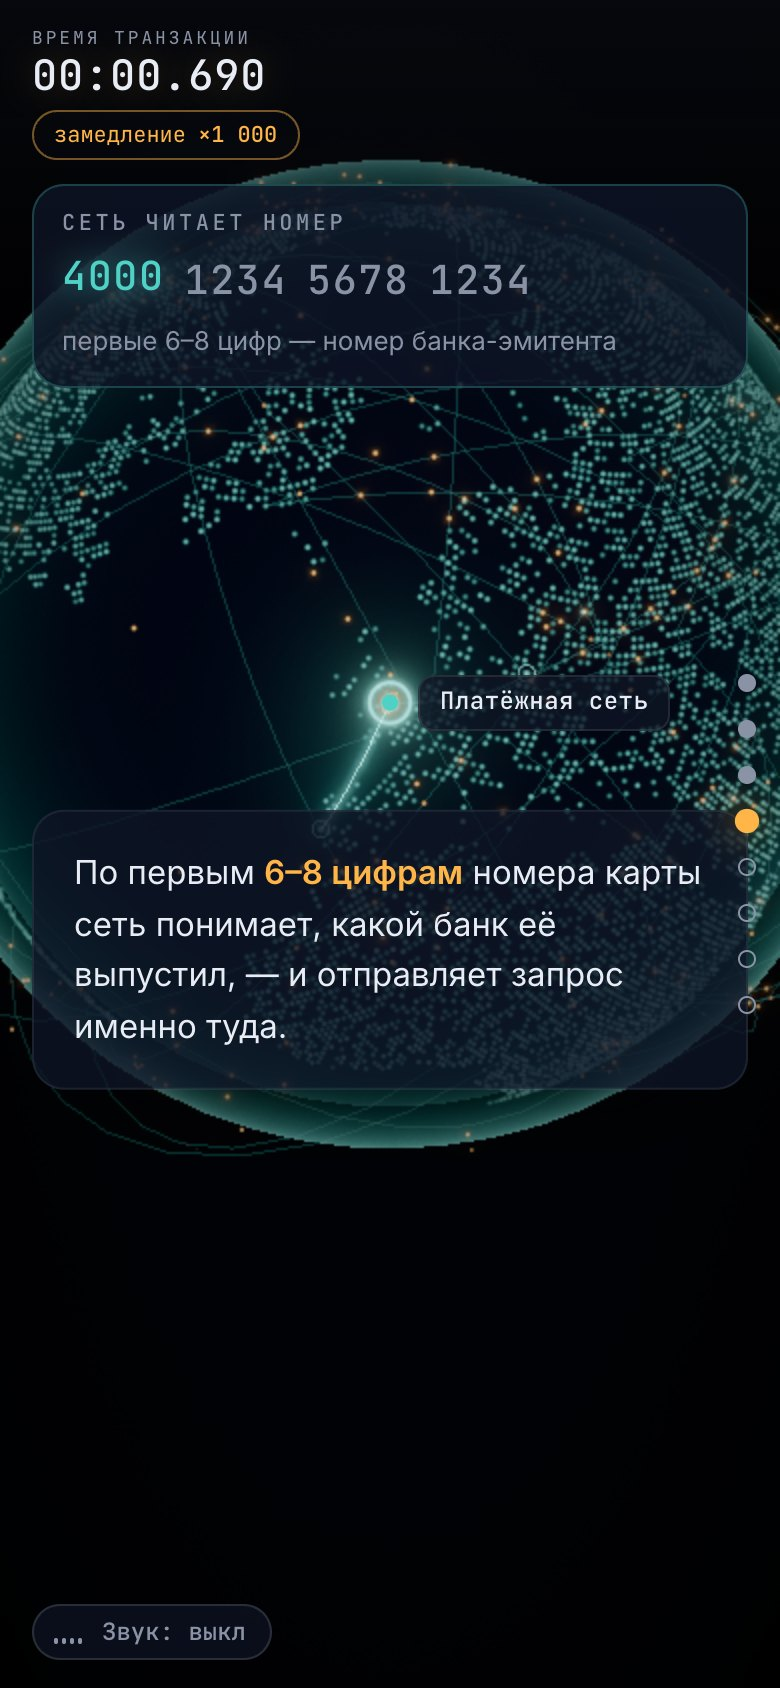
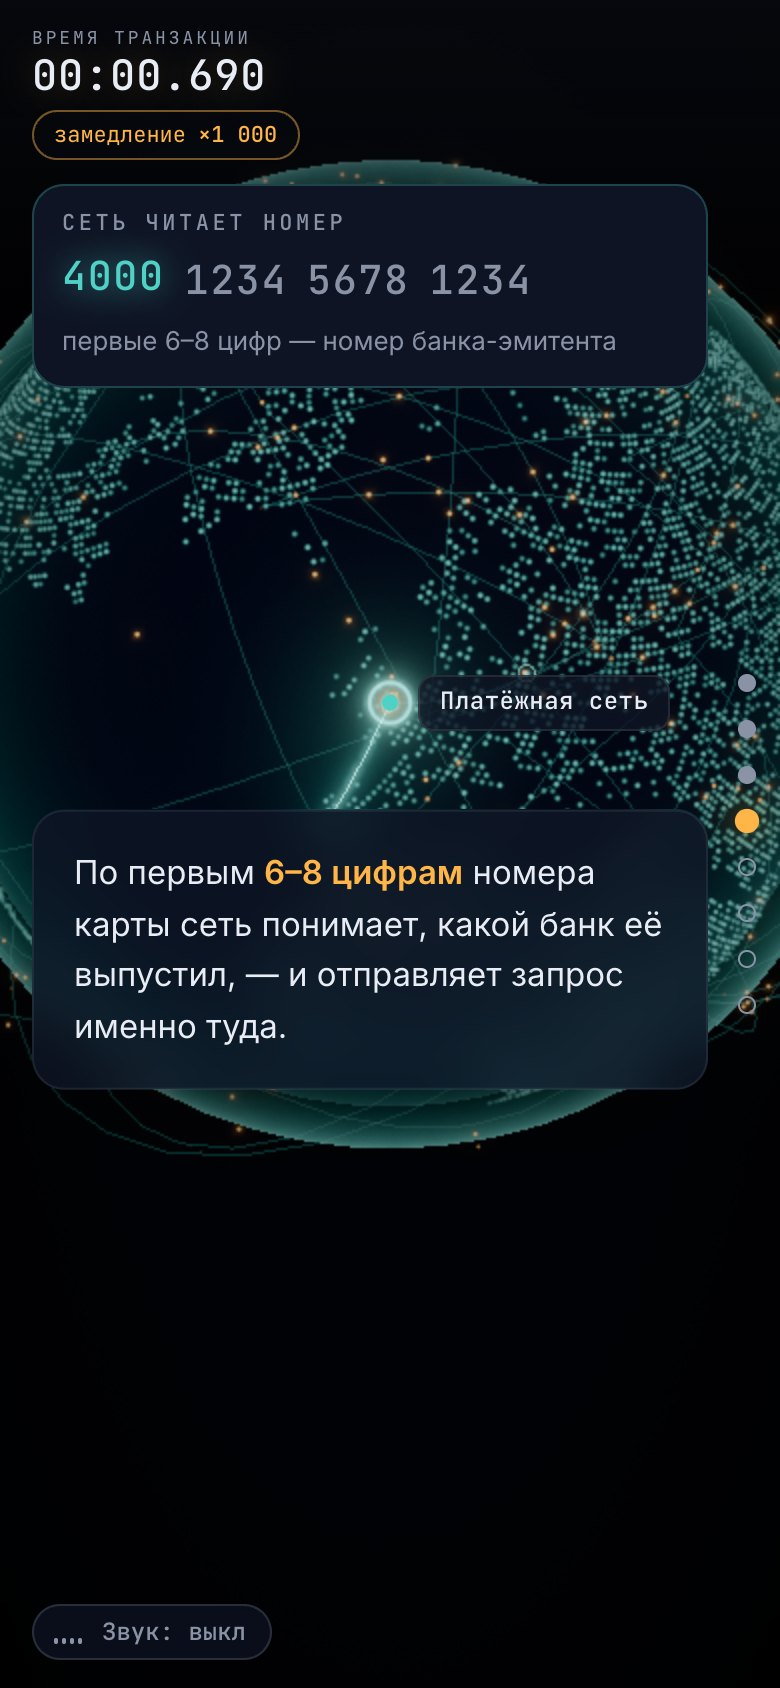
Fix mobile layout: page zoom-out, off-screen labels, rail overlaps
- .cover-hint was centred with translateX(-50%), which the rise animation
  overwrote, so at load it stuck out past the right edge and phones zoomed
  the whole page out (innerWidth 477 on a 390 screen). Centre it with
  left/right instead; clip #story horizontally as a safety net.
- Renderer sizes the canvas from the layout width, not innerWidth.
- 3D labels flip to the other side of their dot or get nudged when they
  would spill off-screen; long labels wrap on phones.
- On phones cards, cover, wow text and overlay panels keep a lane clear
  for the scene rail; HUD, rail and sound hide over the fees finale.
- Refresh mobile screenshots.

diff --git a/src/gl/labels.ts b/src/gl/labels.ts
@@ -1,4 +1,5 @@
 import { Vector3, type Camera } from 'three';
+import { clamp } from '../core/math';
 
 // DOM labels pinned to points in 3D. Text stays real HTML (readable, selectable,
 // crisp at any DPR); only its position follows the WebGL camera.
@@ -10,9 +11,17 @@ type Label = {
   /** Pixel offset from the anchor. */
   dx: number;
   dy: number;
+  /** Box width, re-measured whenever the box element is replaced. */
+  box: HTMLElement | null;
+  bw: number;
+  flip: boolean;
+  shift: number;
 };
 
 const v = new Vector3();
+const EDGE = 8;
+/** The right edge keeps clear of the scene rail. */
+const edgeRight = (w: number) => (w <= 760 ? 34 : 16);
 
 export class LabelLayer {
   readonly root: HTMLElement;
@@ -29,7 +38,7 @@ export class LabelLayer {
     el.className = `label ${cls}`;
     el.innerHTML = html;
     this.root.appendChild(el);
-    const label: Label = { el, anchor: new Vector3(), opacity: 0, dx, dy };
+    const label: Label = { el, anchor: new Vector3(), opacity: 0, dx, dy, box: null, bw: 0, flip: false, shift: 0 };
     this.items.set(id, label);
     return label;
   }
@@ -61,10 +70,47 @@ export class LabelLayer {
       }
       v.copy(l.anchor).project(camera);
       const behind = v.z > 1;
-      const x = (v.x * 0.5 + 0.5) * w + l.dx;
+      let x = (v.x * 0.5 + 0.5) * w + l.dx;
       const y = (-v.y * 0.5 + 0.5) * h + l.dy;
+      const box = l.el.firstElementChild as HTMLElement | null;
+      if (box !== l.box || !l.bw) {
+        l.box = box;
+        l.bw = box?.offsetWidth ?? 0;
+        l.shift = 0;
+      }
+      const right = w - edgeRight(w);
+      if (x < 0 || x > w) this.fit(l, x, right, false);
+      else if (!l.el.classList.contains('is-plain')) this.fit(l, x, right, true);
+      else if (l.bw > right - EDGE) x = (EDGE + right) / 2;
+      else x = clamp(x, l.bw / 2 + EDGE, right - l.bw / 2);
       l.el.style.opacity = behind ? '0' : l.opacity.toFixed(3);
       l.el.style.transform = `translate3d(${x.toFixed(1)}px, ${y.toFixed(1)}px, 0)`;
+    }
+  }
+
+  /** Keeps the box on screen: moves it to the other side of the dot, or nudges it, when it would spill out. */
+  private fit(l: Label, x: number, right: number, onScreen: boolean) {
+    if (!onScreen) {
+      // the anchor itself is off-screen: the box just follows it
+      if (l.flip) l.el.classList.toggle('is-flip', (l.flip = false));
+      if (l.shift && l.box) l.box.style.translate = '';
+      l.shift = 0;
+      return;
+    }
+    const span = l.bw + 14;
+    const left = l.el.classList.contains('is-left');
+    // Room for the box on its own side; a flipped label needs some slack to come back (no flicker).
+    const slack = l.flip ? 12 : 0;
+    const home = left ? x - span >= EDGE + slack : x + span <= right - slack;
+    const away = left ? x + span <= right : x - span >= EDGE;
+    const roomier = left ? right - x > x - EDGE : x - EDGE > right - x;
+    const flip = !home && (away || roomier);
+    if (flip !== l.flip) l.el.classList.toggle('is-flip', (l.flip = flip));
+    const onLeft = left !== flip;
+    const shift = Math.round(onLeft ? Math.max(0, EDGE - (x - span)) : Math.min(0, right - (x + span)));
+    if (shift !== l.shift && l.box) {
+      l.shift = shift;
+      l.box.style.translate = shift ? `${shift}px 0` : '';
     }
   }
 }

diff --git a/src/styles/main.css b/src/styles/main.css
@@ -161,9 +161,14 @@ html.no-webgl body {
   color: var(--muted);
   font-size: 11px;
 }
-.label.is-left .label-box {
+.label.is-left .label-box,
+.label.is-flip .label-box {
   left: auto;
   right: 14px;
+}
+.label.is-left.is-flip .label-box {
+  left: 14px;
+  right: auto;
 }
 .label.is-teal::before {
   background: var(--teal);
@@ -376,6 +381,7 @@ html.no-webgl body {
 #story {
   position: relative;
   z-index: 2;
+  overflow-x: clip;
 }
 
 .scene {
@@ -531,10 +537,12 @@ html:not(.js) .step > p,
   }
 }
 .cover-hint {
+  /* centred without transform: the rise animation owns transform, and a hint
+     stuck half off-screen made phones zoom the whole page out */
   position: absolute;
-  left: 50%;
+  left: 0;
+  right: 0;
   bottom: 28px;
-  transform: translateX(-50%);
   display: flex;
   flex-direction: column;
   align-items: center;
@@ -1385,7 +1393,9 @@ html.is-rewinding #gl {
 @media (max-width: 760px) {
   :root {
     --gutter: 16px;
-    --card-w: calc(100vw - 32px);
+    /* the right lane stays clear for the scene rail */
+    --rail-lane: 36px;
+    --card-w: calc(100vw - var(--gutter) - var(--rail-lane));
     --step-center: 74svh;
   }
   body {
@@ -1394,6 +1404,11 @@ html.is-rewinding #gl {
   .hud {
     top: 12px;
     left: 16px;
+  }
+  .label-box {
+    width: max-content;
+    max-width: calc(100vw - 64px);
+    white-space: normal;
   }
   .hud-kicker {
     font-size: 9px;
@@ -1426,6 +1441,9 @@ html.is-rewinding #gl {
     font-size: 16.5px;
     padding: 18px 20px;
   }
+  .step-wow {
+    width: calc(100vw - 2 * var(--rail-lane));
+  }
   .step-wow > p {
     font-size: 23px;
   }
@@ -1436,7 +1454,7 @@ html.is-rewinding #gl {
     top: auto;
     bottom: 104px;
     transform: none;
-    right: 16px;
+    right: var(--rail-lane);
   }
   .cover-title {
     font-size: clamp(38px, 11vw, 56px);
@@ -1461,7 +1479,7 @@ html.is-rewinding #gl {
     -webkit-backdrop-filter: none;
   }
   .ov-message {
-    right: 16px;
+    right: var(--rail-lane);
     left: 16px;
     top: 92px;
     width: auto;
@@ -1487,7 +1505,7 @@ html.is-rewinding #gl {
   }
   .ov-bin {
     left: 16px;
-    right: 16px;
+    right: var(--rail-lane);
     bottom: auto;
     top: 92px;
     padding: 12px 14px;
@@ -1497,7 +1515,7 @@ html.is-rewinding #gl {
   }
   .ov-risk {
     left: 12px;
-    right: 12px;
+    right: var(--rail-lane);
     top: 84px;
     transform: none;
     width: auto;
@@ -1549,6 +1567,30 @@ html.is-rewinding #gl {
   .ov-settle {
     bottom: auto;
     top: 96px;
+  }
+
+  /* the finale card takes the whole width: the timer, rail and sound step aside */
+  .hud,
+  .hud-shade,
+  .rail,
+  .sound {
+    transition:
+      opacity 0.4s var(--ease),
+      visibility 0s linear 0s,
+      color 0.3s,
+      border-color 0.3s;
+  }
+  html.is-final .hud,
+  html.is-final .hud-shade,
+  html.is-final .rail,
+  html.is-final .sound {
+    opacity: 0;
+    visibility: hidden;
+    transition:
+      opacity 0.4s var(--ease),
+      visibility 0s linear 0.4s,
+      color 0.3s,
+      border-color 0.3s;
   }
 
   .scene-fees {

diff --git a/src/core/hud.ts b/src/core/hud.ts
@@ -57,6 +57,7 @@ export class HudView {
     if (factor !== this.last.factor) this.factor.textContent = this.last.factor = factor;
     if (scene !== this.last.scene) {
       this.last.scene = scene;
+      document.documentElement.classList.toggle('is-final', scene === this.railBtns.length);
       this.railBtns.forEach((b) => {
         const k = Number(b.dataset.goto);
         b.classList.toggle('is-active', k === scene);

diff --git a/src/core/renderer.ts b/src/core/renderer.ts
@@ -161,7 +161,8 @@ export class Renderer {
   }
 
   resize() {
-    this.width = window.innerWidth;
+    // layout width, not innerWidth: a zoomed-out phone page must not stretch the canvas
+    this.width = document.documentElement.clientWidth || window.innerWidth;
     this.height = window.innerHeight;
     this.gl.setPixelRatio(this.dpr);
     this.composer.setSize(this.width, this.height, true);
